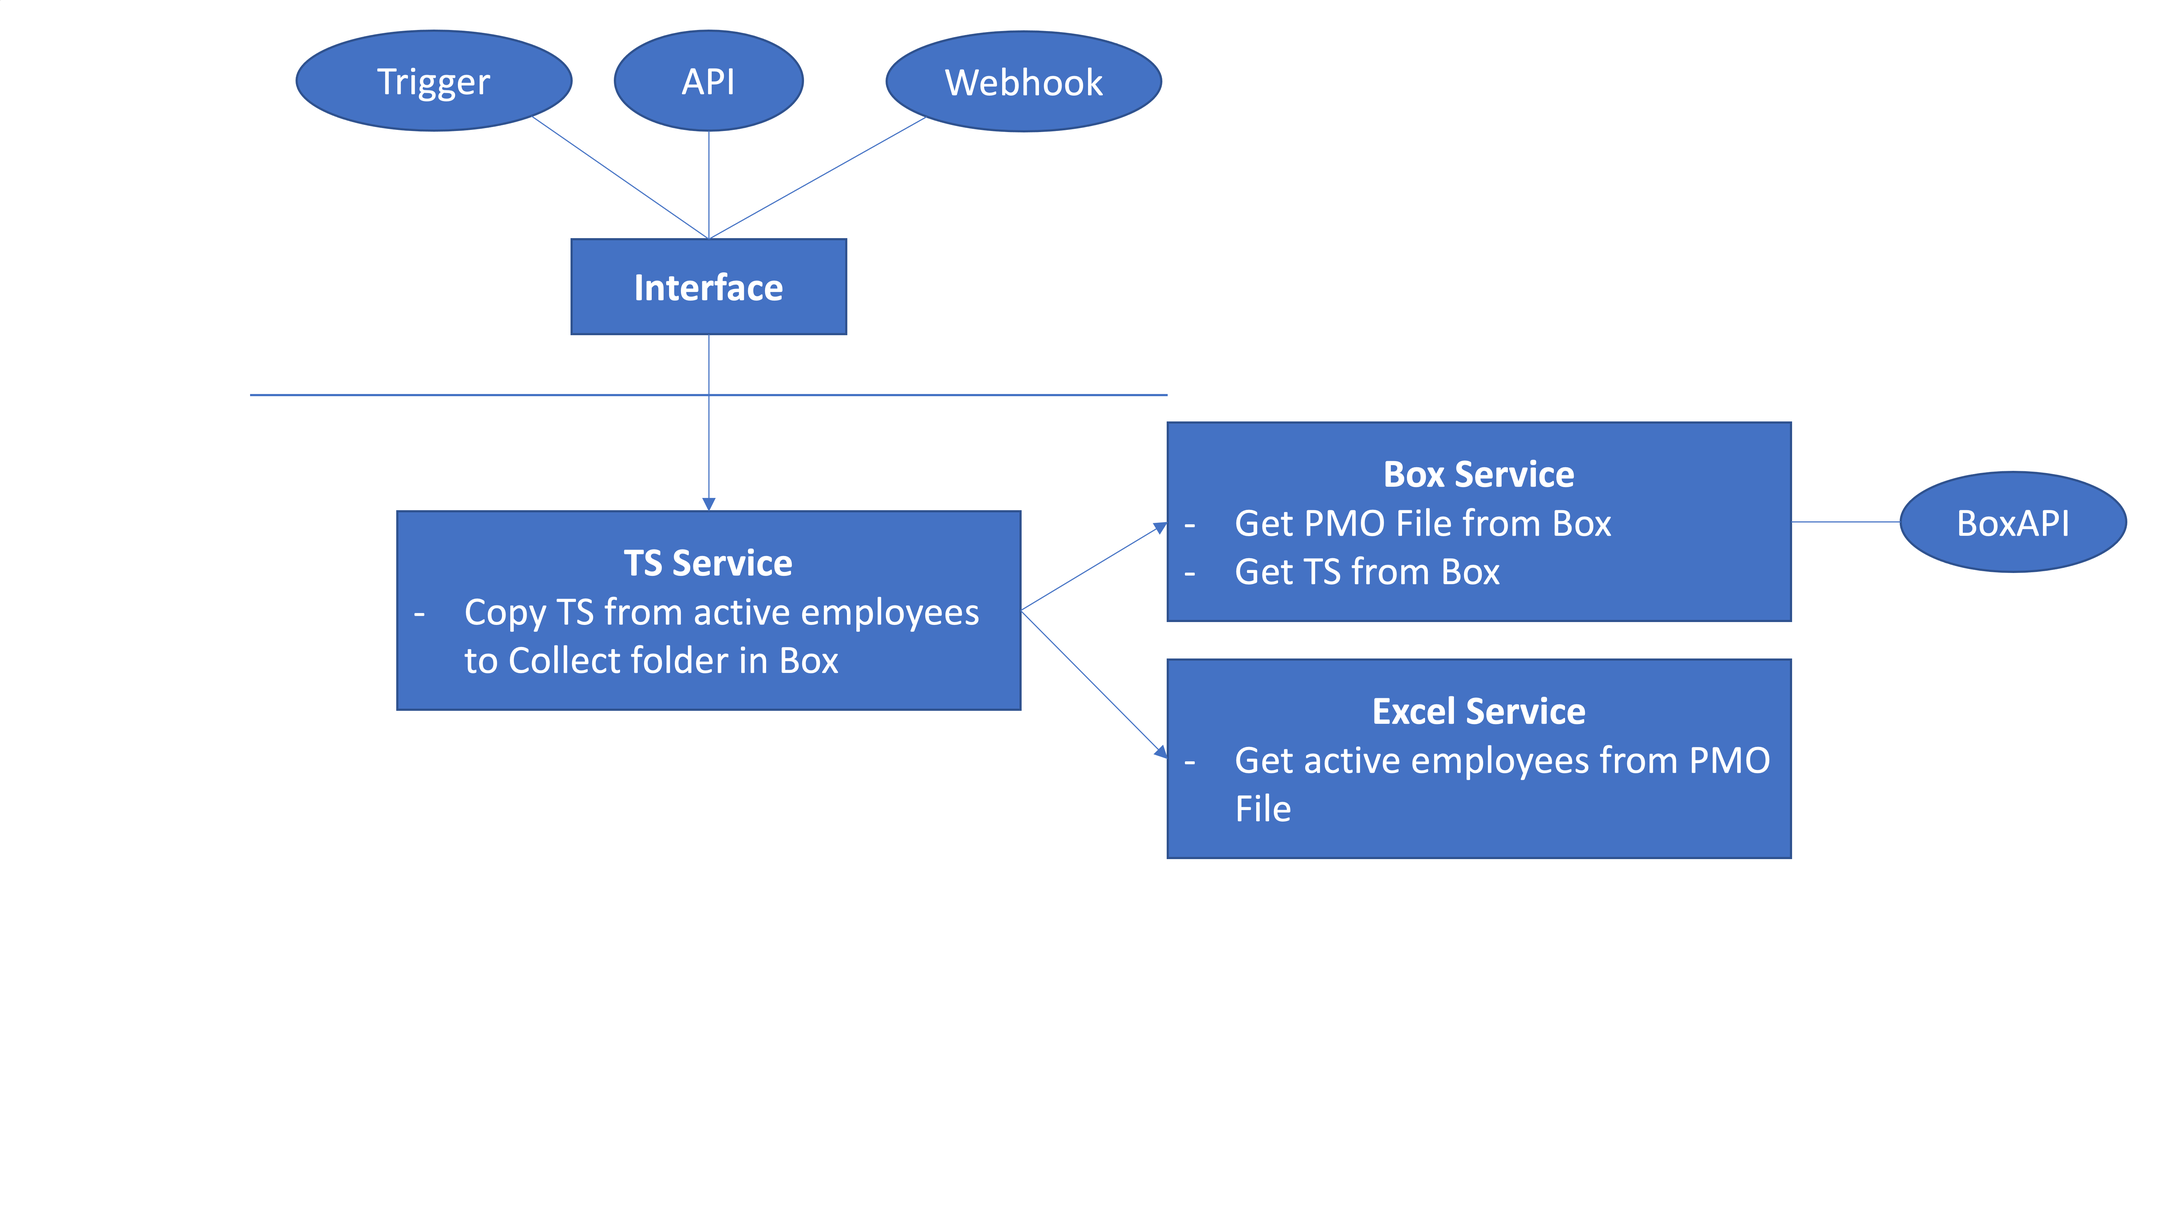
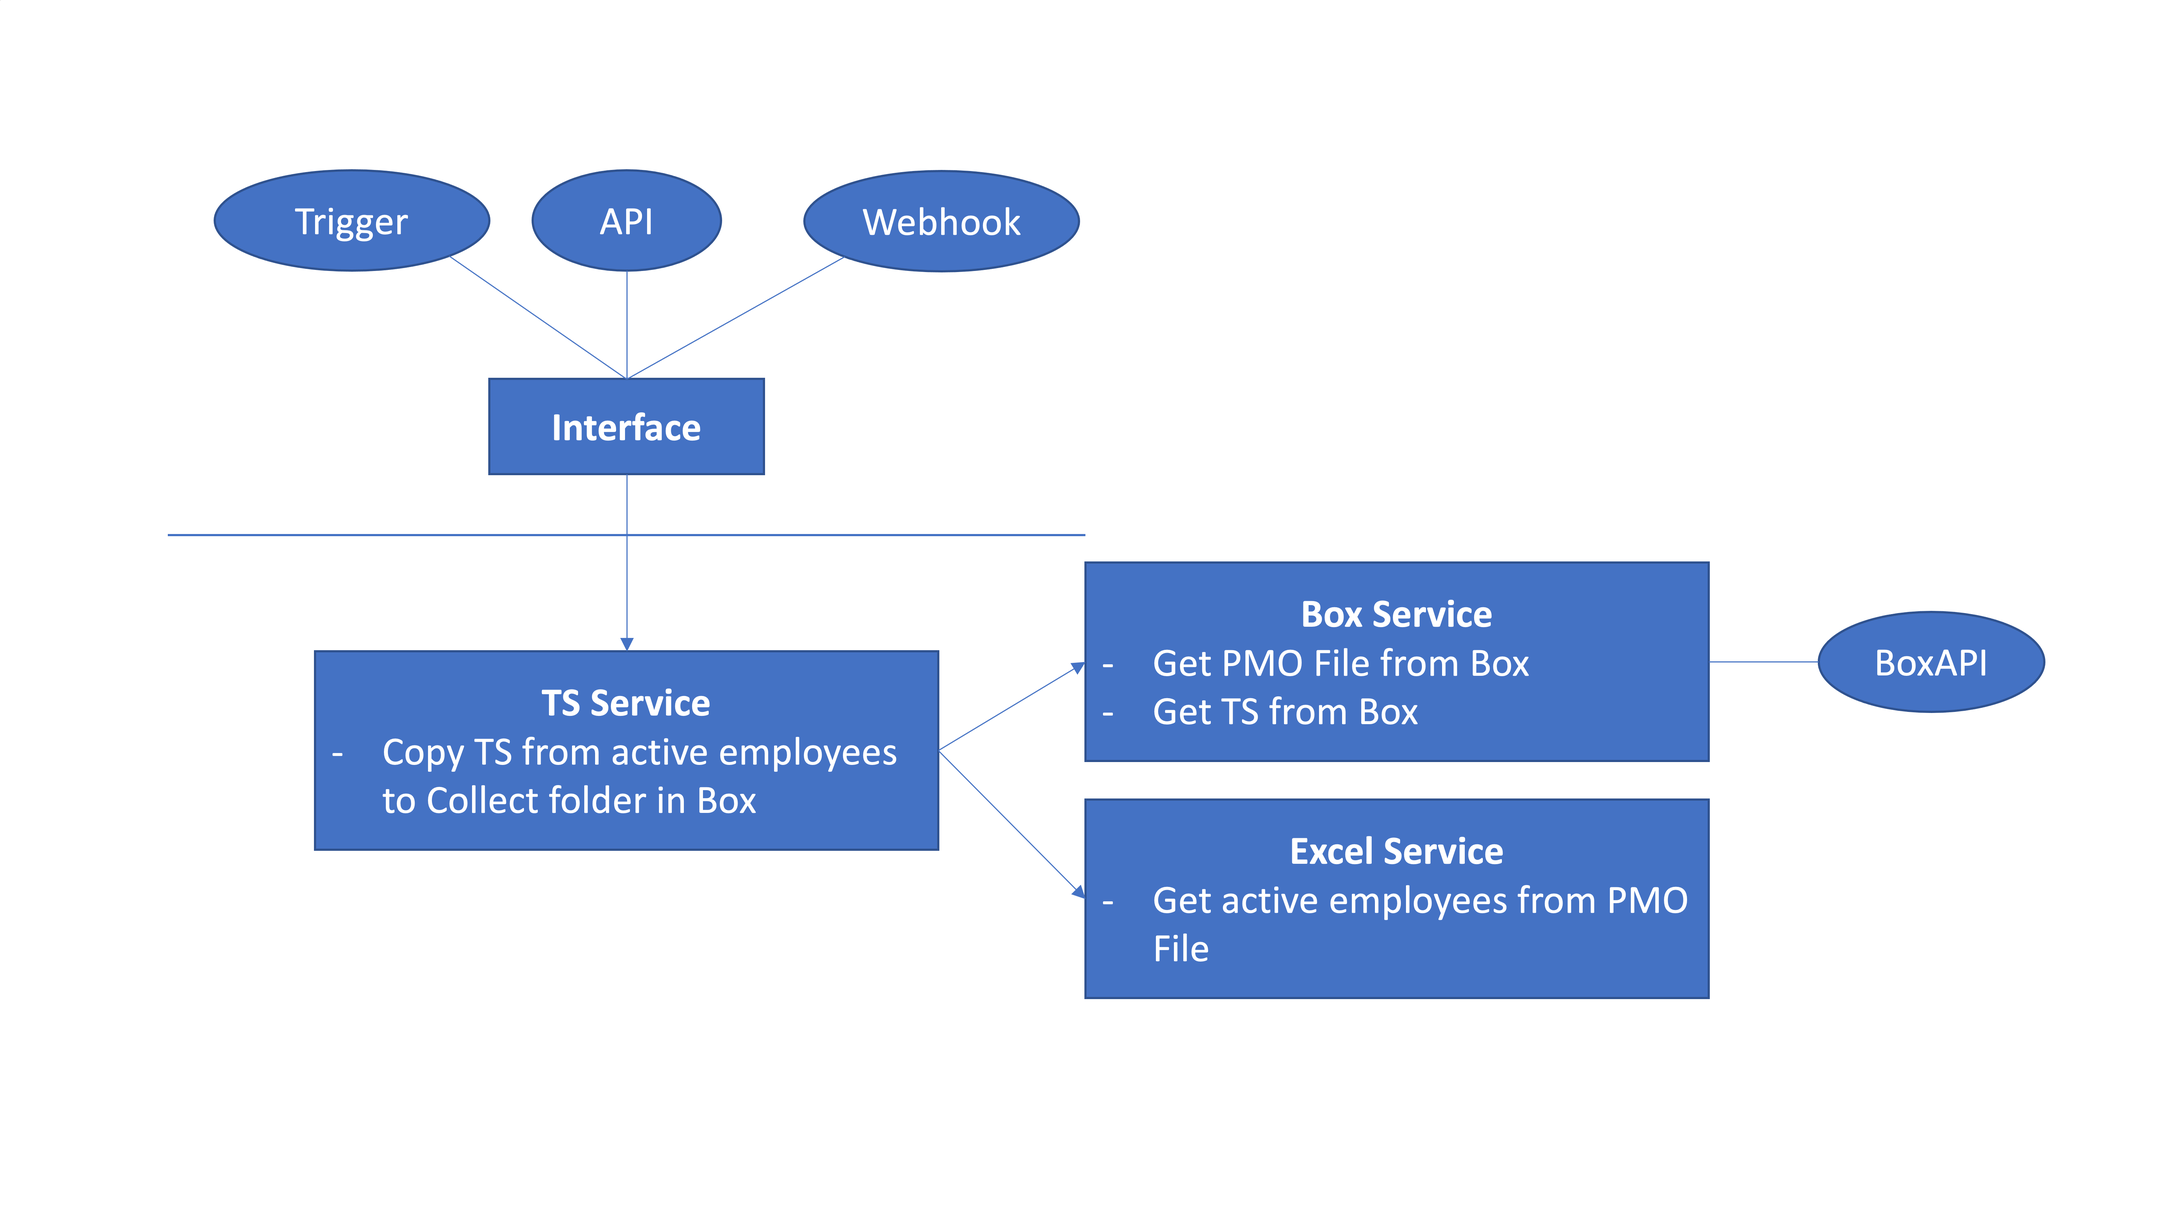
20 seiten

Changed region(s): [[0.125, 0.3103, 0.9688, 0.8378], [0.0938, 0.0, 0.5312, 0.2793], [0.875, 0.3723, 1.0, 0.4654]]

diff --git a/content/04_forschung/02_konzeptentwurf.tex b/content/04_forschung/02_konzeptentwurf.tex
@@ -3,8 +3,18 @@ Bevor die Anwendung in die Cloud migriert werden kann, muss konzeptioniert werde
 
 Da die ursprüngliche Anwendung einige Funktionalitäten auf eine Weise umsetzt, die nicht in der Cloud funktionieren würde (z.B. das Lesen und Schreiben in Box), müssen diese überarbeitet oder neu geschrieben werden. Ein simples Rehosting ist durch die anfallenden Anpassungen entsprechend nicht möglich.
 
+\begin{figure}[H]
+    \centering
+    \includegraphics[width=\textwidth]{architektur.png}
+    \caption{Grober Architekturentwurf}
+    \label{fig:Architektur}
+\end{figure}
+
+Abbildung \ref{fig:Architektur} zeigt einen groben  Entwurf der Anwendung und wie die Services miteinander kommunizieren sollen. Der Timesheet Service soll zu einem Späteren Zeitpunkt alle Funktionen aus der Ursprünglichen Anwendung bündeln, für den Prototypen wird sich jedoch, wie bereits in der Anforderungsanalyse erwähnt, auf den Collect Service beschränkt.
+\pagebreak
+
 \subsection{Box Service}
-In der ursprünglichen Anwendung ist der Zugriff auf die Box mithilfe der Box Drive Erweiterung umgesetzt worden. Diese ermöglicht es, Verzeichnisse in der Box wie einen lokalen Dateipfad ansprechen zu können, zum Beispiel \textit{C:/Users/User/Box/Folder}. Somit konnte der Box-Pfad in eine Konfigurationsdatei geschrieben und als Parameter an die Anwendung übergeben werden. Nachteil an dieser Umsetzung ist die Notwendigkeit den Box-Pfad anpassen zu müssen, wenn ein anderer Nutzer die Anwendung startet. Eine Einbindung der Box API für den Prototypen wird aus diesem Grund unumgänglich sein.
+In der ursprünglichen Anwendung ist der Zugriff auf die Box mithilfe der Box Drive Erweiterung umgesetzt worden. Diese ermöglicht es, Verzeichnisse in der Box wie einen lokalen Dateipfad ansprechen zu können, zum Beispiel \textit{C:/Users/User/Box/Folder}. Somit konnte der Box-Pfad in eine Konfigurationsdatei geschrieben und als Parameter an die Anwendung übergeben werden. Nachteil an dieser Umsetzung ist die Notwendigkeit den Box-Pfad anpassen zu müssen, wenn ein anderer Nutzer die Anwendung startet. Eine Einbindung der Box \ac{API} für den Prototypen wird aus diesem Grund unumgänglich sein.
 
 Der Box Service muss Dateien herunterladen, die Inhalte von Ordnern auflisten und Ordner IDs ermitteln können.
 
@@ -12,7 +22,7 @@ Der Box Service muss Dateien herunterladen, die Inhalte von Ordnern auflisten un
 Außerdem enthalten die PMO-Tools ein \glqq{excelhelper.py}\grqq{} Skript, welches den Umgang mit Excel Spreadsheets ermöglicht. Dazu gehört zum einen das Ermitteln aktiver Mitarbeiter und zum anderen das Auslesen der Timesheets, was jedoch für den Prototypen keine Verwendung findet. Einen vergleichbaren Service muss auch die neue Anwendung enthalten.
 
 \subsection{Timesheet Service}
-Den \glqq{Hauptservice}\grqq{} der Anwendung soll der Timesheet Service bilden. Dieser soll Funktionen bereitstellen, die unter Verwendung der anderen Services die letztendlich gewünschte Funktionalität des Einsammeln der Timesheets bieten. Dieser Service soll zu einem Späteren Zeitpunkt immer dann getriggert werden, wenn eine neue Konfigurationsdatei in einen entsprechenden Box Ordner geladen wird. Für den Prototypen reicht jedoch ein simpler Trigger oder der Start via API \textit{Request} aus.
+Den \glqq{Hauptservice}\grqq{} der Anwendung soll der Timesheet Service bilden. Dieser soll Funktionen bereitstellen, die unter Verwendung der anderen Services die letztendlich gewünschte Funktionalität des Einsammeln der Timesheets bieten. Dieser Service soll zu einem Späteren Zeitpunkt immer dann getriggert werden, wenn eine neue Konfigurationsdatei in einen entsprechenden Box Ordner geladen wird. Für den Prototypen reicht jedoch ein simpler Trigger oder der Start via \ac{API} \textit{Request} aus.
 
 \subsection{Programmiersprache und Framework}
 Neben der Konzeptionierung einer Anwendungsarchitektur braucht es zur Entwicklung auch eine Programmiersprache und gegebenenfalls ein Framework, um die Anwendung sinnvoll umzusetzen. Im Falle der PMO-Tools wurde ursprünglich Python verwendet, jedoch erschien im Zuge des Refactoring ein Wechsel zu Java und dem Springboot Framework sinnvoll.

diff --git a/content/04_forschung/03_implementierung.tex b/content/04_forschung/03_implementierung.tex
@@ -1,10 +1,19 @@
 \section{Implementierung des Prototypen}
 
-Nachfolgend wird der Prozess der Implementierung des Prototypen beschrieben.
+Nachfolgend wird der Prozess der Implementierung des Prototypen beschrieben. Die Entwicklung wurde in verschiedene Schritte unterteilt, die in den folgenden Abschnitten beschrieben werden.
 
-\subsection{Step 1}
-Zuerst wurde\dots{}
+\subsection{Lokaler Entwurf}
+Der erste Entwicklungsschritt für die Anwendung ist ein lokaler Entwurf des Konzeptes, welches später in die Cloud migriert werden soll. Um die Box \ac{API} direkt nutzen zu können wird im ersten Entwurf darüber hinaus ein privater Box Account verwendet, um die Zulassungsprozesse der Enterprise Box zu umgehen. Die Einbindung dieser wird auf einen späteren Entwicklungsschritt verschoben.
 
-\subsection{Step 2}
-In einem weiteren Entwicklungsschritt\dots{}
+Initial wurde ein \textit{\gls{Springboot}} Projekt in \textit{\gls{IntelliJ}} aufgesetzt. Parallel dazu wurde in einem privaten Box Account die Ordnerstruktur des Projektverzeichnisses repliziert und eine sogenannte Box-App erstellt, die die Zugriffsdaten für die Nutzung der \ac{API} bereitstellt.
+
+Im nächsten Schritt wurde als erste Funktion dann der Box Service erstellt und getestet. Um diesen über eine \ac{REST}-\ac{API} verfügbar zu machen wurde außerdem ein \textit{BoxController} erstellt, welcher die \ac{API} Anfragen verarbeitet. Die erste getestete Funktion war der allgemeine Zugriff auf das Box Verzeichnis mit den Zugriffsdaten der Box-App. Über die \ac{API} Dokumentation von Box sind für die gängigsten Methoden und Programmiersprachen bereits beispielhafte Codesnippets bereitstellt. Hierbei wurde unter anderem festgestellt, dass die \ac{API}-Dokumentation einige Lücken enthält, die eine reibungslose Implementierung erschweren. So fehlten zum Beispiel die Information, dass die zuvor erstellte Box-App einen eigenen Serviceuser erstellt und dieser erst auf die entsprechenden Verzeichnisse zugelassen werden muss, bevor ein Zugriff möglich ist. Nachdem diese Hürde jedoch überwunden war, funktionierte der Zugriff wie gewünscht und Ordner und Dateien aus dem Verzeichnis konnten Angezeigt werden.
+
+Die nächste entwickelte Funktion war die automatisierte Ermittlung der Folder-IDs, da diese für den Zugriff auf die Unterordner benötigt werden. Bei der Ausgabe aller im Projektordner enthaltenen Elemente, werden diese mit Namen, IDs und einigen weiteren Informationen im \ac{JSON}-Format ausgegeben. Da die Namensgebung der Ordner einem vorgegebenen Prinzip folgt, kann anhand der Ordnernamen die ID des jeweils gesuchten Ordners ermittelt werden.
+
+\subsection{Migration in die Cloud}
+Nachdem festgestellt werden konnte, dass die Anwendung lokal wie gewünscht läuft, wir in einem nächsten Schritt die Migration in die Cloud durchgeführt. Als Cloud Provider wurde \ac{AWS} gewählt. Mithilfe von \gls{Terraform} Skripts wurde die Cloud-Umgebung den Anforderungen entsprechend aufgesetzt.
+
+\subsection{Einbindung der Enterprise-Box}
+Um die Anwendung tatsächlich nutzen zu können wird die Enterprise-Box Angebunden. Dies ist etwas umständlicher als die vorangehenden Tests mit einem privaten Box Ordner, da zuerst seitens des Enterprise-Admins eine Genehmigung erteilt werden muss, bevor auf die Box zugegriffen werden kann. Darüber hinaus muss die ID des Projektordners ermittelt werden.
 \pagebreak

diff --git a/content/02_grundlagen/02_migrationsansaetze.tex b/content/02_grundlagen/02_migrationsansaetze.tex
@@ -1,7 +1,7 @@
 \section{Migrationsansätze}
 \label{sec:migrationsansaetze}
 
-Im folgenden Kapitel wird auf die unterschiedlichen Migrationsmethoden des Cloud Computing eingegangen. Durch die unterschiedlichen Abstraktionsebenen bedingt gibt es verschiedene Ansätze, wie die Cloud Migration realisierbar ist \cite[Vgl.][S. 226]{Surianarayanan2019}, angefangen mit dem sogenannten \glqq{Lift and Shift}\grqq{}, bis hin zur Entwicklung Cloud nativer Anwendungen \cite[Vgl.][S. 144]{Zhao2014}.
+Im folgenden Kapitel wird auf die unterschiedlichen Migrationsmethoden des Cloud Computing eingegangen. Durch die unterschiedlichen Abstraktionsebenen bedingt gibt es verschiedene Ansätze, wie die Cloud Migration realisierbar ist \cite[Vgl.][S. 226]{Surianarayanan2019}, angefangen mit dem auch als \glqq{Lift and Shift}\grqq{} bezeichneten Rehosting, bis hin zur Migration zu \ac{SaaS} verbunden mit der Entwicklung Cloud nativer Anwendungen \cite[Vgl.][S. 144]{Zhao2014}.
 
 \subsection{Migration zu IaaS (Rehosting)}
 Nach Zhao (2014) ist vorallem das Rehosting die vorgeschlagene Strategie für die Migration zu \ac{IaaS} \cite[Vgl.][S. 144]{Zhao2014}. Umgangssprachlich wird diese Vorgehensweise auch als \glqq{Lift and Shift}\grqq{} bezeichnet \cite[Vgl.][]{NetApp}. Bei diesen Strategien werden Anwendungen lediglich auf einer anderen Hardwareplattform installiert, die Anwendungsarchitektur bleibt dabei unverändert. Dieser Ansatz bietet eine schnelle Lösung zur Migration \cite[Vgl.][]{CIO}.
@@ -14,6 +14,6 @@ Das Refactoring oder Rebuilding von Anwendungen gehört nach Zhao (2014) zu den 
 Durch die vom Cloud Provider teils vorgegebene Plattform (z.B. Middleware und Datenbanken) müssen Anwendungen dieser entsprechend angepasst werden \cite[Vgl.][S. 227]{Surianarayanan2019}. Der Mehrwert einer Migration zu \ac{PaaS} ist, dass der Anwender die IT-Infrastruktur nicht mehr managen muss und somit Aufwände reduziert werden können \cite[Vgl.][S. 6]{Pahl}.
 
 \subsection{Migration zu SaaS (Cloud Native Entwicklung)}
-Der Schritt zu \ac{SaaS} ist nach Zhao (2014) auf verschiedenen Wegen zu erreichen. Demnach sei eine Anwendung durch einen SaaS Service entweder zu ersetzen, enstprechend der SaaS Prinzipien zu überarbeiten oder zu einem \ac{SaaS} Service unzustrukturieren \cite[Vgl.][S. 144]{Zhao2014}.
+Der Schritt zu \ac{SaaS} ist nach Zhao (2014) auf verschiedenen Wegen zu erreichen. Demnach sei eine Anwendung durch einen SaaS Service entweder zu ersetzen, entsprechend der SaaS Prinzipien zu überarbeiten oder zu einem \ac{SaaS} Service umzustrukturieren \cite[Vgl.][S. 144]{Zhao2014}.
 
 Das Augeben einer Anwendung und vollständige Ersetzen dieser durch Nutzung des \ac{SaaS} Modells bedarf eines größeren Aufwand und ein Entwicklungsteam zur Umsetzung der Anforderungen \cite[Vgl.][]{CIO}.

diff --git a/content/04_forschung/05_analyse.tex b/content/04_forschung/05_analyse.tex
@@ -1,3 +1,23 @@
 \section{Use-Case Analyse}
 
-Abschließend wird der Prototyp Evaluiert.
+Abschließend für dieses Kapitel werden die Entwicklungsschritte zusammengefasst um untersuchen zu können, ob die Umsetzung der weiteren Services sinnvoll wäre und abschließend für diese Arbeit die Forschungsfrage beantworten zu können.
+
+\subsection{Use-Case Beschreibung}
+Der für den Prototypen ausgewählte Use-Case ist das "Einsammeln" der Timesheets. Aus einer Konfigurationsdatei hinaus soll festgelegt werden für welches Projekt und welchen Zeitraum diese von dem Projektverzeichnis in ein temporäres Verzeichnis kopiert werden sollen. Unter diesem Haupt-Use-Case definieren sich weitere Sub-Use-Cases, die wie folgt aussehen:
+\begin{itemize}
+\item \textbf{Einlesen der Konfigurationsdatei:} Lesen der Parameter für Box-Zugriff und Projektdaten aus der Konfigurationsdatei
+\item \textbf{Lesen des PMO Files:} Lesen des Projektmanagement-Files aus dem Box-Verzeichnis zur Ermittlung der Namen aktiver Mitarbeiter
+\item \textbf{Einsammeln (Kopieren) der Timesheets:} Erfassen der Timesheets aller aktiven Mitarbeiter und Kopieren dieser in das temporäre Verzeichnis
+\end{itemize}
+
+\subsection{Akzeptanzkriterien}
+Um die Implementierung als erfolgreich zu bewerten, müssen folgende Kriterien erfüllt sein:
+\begin{itemize}
+\item Die Parameter, wie zum Beispiel Projektname und vordefinierte Ordner IDs werden korrekt aus der Konfiguration gelesen und verwendet.
+\item Alle Mitarbeiter, die im Projektmanagement-File den Status \glqq{aktiv}\grqq{} haben, werden korrekt ermittelt.
+\item Die Timesheets für den zuvor definierten Monat werden für alle aktiven Mitarbeiter in das temporäre Verzeichnis kopiert.
+\end{itemize}
+
+\subsection{Testfälle}
+
+Für die Cloud-Migration der PMO-Tools war eine Umstrukturierung aufgrund der bestehenden Anwendungsstruktur notwendig. Dazu wurde die Anwendung umgeschrieben und in eine Springboot App umgewandelt. Alle Funktionen der ursprünglichen Anwendung mussten somit entsprechend in Java repliziert werden, der Aufwand dabei hängt stark von der Komplexität der jeweiligen Funktion ab. Desweiteren war es nötig, die Box-\ac{API} in die Anwendung zu integrieren, da die zuvor verwendete Zugriffsmethode nicht migrationsfähig gewesen wäre.

diff --git a/content/03_forschungsmethoden/02_prototyping.tex b/content/03_forschungsmethoden/02_prototyping.tex
@@ -4,7 +4,7 @@ Als weitere Forschungsmethode dieser Arbeit wird das \textit{Prototyping} einges
 
 Entgegen den Ingenieurswissenschaften meint \textit{Prototyping} jedoch nicht zwingend die letzte Entwicklungsversion vor der Fertigstellung, sondern die frühest mögliche testweise Implementierung eines Anwendungsentwurfs \cite[Vgl.][S. 114]{Heinrich2011} und muss ein System nicht zwingend vollständig abbilden \cite[Vgl.][S. 119]{Heinrich2011}.
 
-In dem in dieser Arbeit behandelten Fall wird als Prototyp einer der Services der Anwendung umgeschrieben und in die Cloud migriert, um den damit verbundenen Aufwand untersuchen zu können und unter anderem die Nutzung der Box API zu testen.
+In dem in dieser Arbeit behandelten Fall wird als Prototyp einer der Services der Anwendung umgeschrieben und in die Cloud migriert, um den damit verbundenen Aufwand untersuchen zu können und unter anderem die Nutzung der Box \ac{API} zu testen.
 
 Um darüber hinaus feststellen zu können um welche Art des Prototyping es sich handelt, werden nachfolgend die drei Umsetzungswege aufgezeigt \cite[Vgl. auch im Folgenden][S. 370]{Alpar2019}:
 \begin{itemize}

diff --git a/content/01_einleitung/03_auswahl_forschungsmethoden.tex b/content/01_einleitung/03_auswahl_forschungsmethoden.tex
@@ -9,4 +9,4 @@ Zur Recherche wurden die folgenden Begriffe verwendet: "Cloud Migration", "Cloud
 
 Diese wurden als \textbf{\glqq{primäre Suchbegriffe}\grqq{}} \cite[S. 158]{Doering2016} festgelegt. Die Suche wurde darüber hinaus nach dem Schneeballsystem durchgeführt, was bedeutet, dass die Quellen der verwendeten Veröffentlichungen zur weiteren Recherche verwendet werden \cite[Vgl.][S. 160]{Doering2016}. Aus den Quellen wurden außerdem weitere Begriffe als \textbf{\glqq{sekundäre Suchbegriffe}\grqq{}} \cite[S. 158]{Doering2016} festgelegt und zur erweiterten Suche verwendet.
 
-Außerdem wird das \textit{Prototyping} wie in Wilde/Hess 2007 und Heinrich 2011 beschrieben, zur Umsetzung des Anwendungsbeispiels durchgeführt.
+Außerdem wird das \textit{Prototyping} wie in Wilde/Hess 2007 und Heinrich 2011 beschrieben, zur Umsetzung des Anwendungsbeispiels und eine Use-Case Analyse durchgeführt.

diff --git a/ads/acronyms.tex b/ads/acronyms.tex
@@ -1,4 +1,4 @@
-%!TEX root = ../dokumentation.tex
+% !TEX root = ../dokumentation.tex
 
 \addchap{\langabkverz}
 %nur verwendete Akronyme werden letztlich im Abkürzungsverzeichnis des Dokuments angezeigt
@@ -29,5 +29,8 @@
 \acro{AWS}{Amazon Web Services}
 \acro{NIST}{National Institute of Standards and Technology}
 \acro{VPN}{Virtual Private Network}
+\acro{API}{Application Programming Interface}
+\acro{REST}{Representational State Transfer}
+\acro{JSON}{JavaScript Object Notation}
 
 \end{acronym}

diff --git a/ads/glossary.tex b/ads/glossary.tex
@@ -10,3 +10,6 @@
 % Aufruf mit \gls{...}
 %
 \newglossaryentry{Glossareintrag}{name={Glossareintrag},plural={Glossareinträge},description={Ein Glossar beschreibt verschiedenste Dinge in kurzen Worten}}
+\newglossaryentry{IntelliJ}{name={IntelliJ},description={Eine Programmierumgebung für Java Projekte}}
+\newglossaryentry{Springboot}{name={Springboot},description={folgt\dots}}
+\newglossaryentry{Terraform}{name={Terraform},description={folgt\dots}}

diff --git a/content/04_forschung/04_architektur.tex b/content/04_forschung/04_architektur.tex
@@ -1,13 +1,4 @@
 \section{Untersuchung der Architektur}
 
 Im Folgenden Abschnitt wird die Architektur des Entwickelten Prototypen beschrieben und untersucht.
-
-\begin{figure}[h]
-    \includegraphics[width=\textwidth]{architektur.png}
-    \caption{Grober Architekturentwurf}
-    \label{fig:Architektur}
-\end{figure}
-
-Dieser Text sollte jetzt nach dem Bild zu finden sein...
-
 \pagebreak

diff --git a/content/03_forschungsmethoden/00_forschungsmethoden.tex b/content/03_forschungsmethoden/00_forschungsmethoden.tex
@@ -8,3 +8,4 @@ Auf Basis dieser Erkenntnisse wird im weiteren Verlauf \textit{Prototyping} eing
 %%% Einbindung Subkapitel %%%
 \input{content/03_forschungsmethoden/01_literaturrecherche.tex}
 \input{content/03_forschungsmethoden/02_prototyping.tex}
+\input{content/03_forschungsmethoden/03_usecase_analyse.tex}

diff --git a/content/03_forschungsmethoden/03_usecase_analyse.tex b/content/03_forschungsmethoden/03_usecase_analyse.tex
@@ -1,0 +1,8 @@
+\section{Use-Case Analyse}
+
+Die dritte in dieser Arbeit eingesetzte Forschungsmethode ist eine Use-Case Analyse. Diese besteht aus den folgenden Schritten:
+\begin{enumerate}
+    \item Use-Case Beschreibung
+    \item Akzeptanzkriterien
+    \item Testen der Implementierung
+\end{enumerate}
